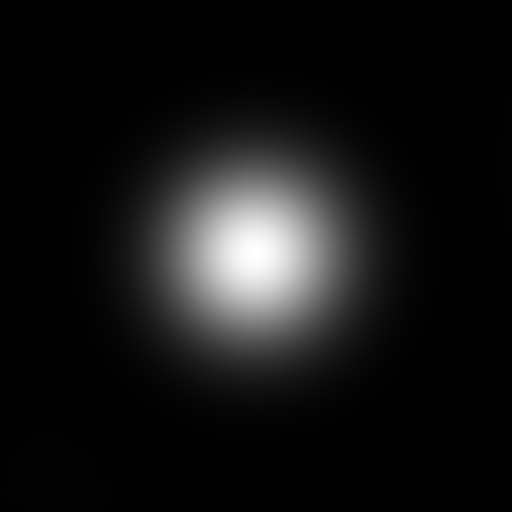
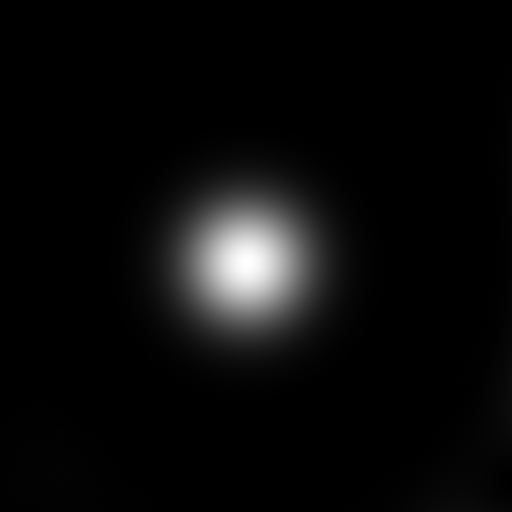
render target perfect

Changed region(s): [[0.25, 0.25, 0.75, 0.75]]

diff --git a/src/js/Webgl/World/Bases/Grass/Grass.js b/src/js/Webgl/World/Bases/Grass/Grass.js
@@ -27,6 +27,7 @@ import {
 	WebGLRenderTarget,
 	Vector2,
 	sRGBEncoding,
+	Box3Helper,
 } from 'three';
 import { loadTexture } from '@utils/loaders/loadAssets';
 
@@ -50,7 +51,6 @@ const params = {
 	halfBoxSize: 28,
 	verticeScale: 0.42,
 	count: 300000,
-	// count: 200,
 	color: '#de47ff',
 	fogColor: '#3e2e77',
 };
@@ -63,7 +63,7 @@ const debug = {
 /// #endif
 
 export default class Grass {
-	constructor(scene) {
+	constructor({ scene }) {
 		const webgl = getWebgl();
 		this.scene = scene.instance;
 		this.player = scene.player;
@@ -75,7 +75,11 @@ export default class Grass {
 		debug.instance = scene.gui;
 		/// #endif
 
-		this.base = {};
+		this.base = {
+			geometry: null,
+			material: null,
+			mesh: null,
+		};
 	}
 
 	async init() {
@@ -93,8 +97,22 @@ export default class Grass {
 	}
 
 	setRenderTarget() {
+		this.minBox = this.ground.base.mesh.geometry.boundingBox.min;
+		this.maxBox = this.ground.base.mesh.geometry.boundingBox.max;
+
 		const rtWidth = 512;
 		const rtHeight = 512;
+
+		this.rtCamera = new OrthographicCamera(
+			this.minBox.x,
+			this.maxBox.x,
+			this.maxBox.z,
+			this.minBox.z,
+			1,
+			this.maxBox.y + Math.abs(this.minBox.y),
+		);
+		this.rtCamera.rotation.x = -Math.PI * 0.5;
+		this.rtCamera.position.y = this.maxBox.y;
 
 		this.renderTarget = new WebGLRenderTarget(rtWidth, rtHeight);
 
@@ -103,20 +121,6 @@ export default class Grass {
 		this.renderTarget.depthTexture = this.depthTexture;
 		this.renderTarget.depthTexture.format = DepthFormat;
 		this.renderTarget.depthTexture.type = UnsignedShortType;
-
-		this.minBox = this.ground.base.mesh.geometry.boundingBox.min;
-		this.maxBox = this.ground.base.mesh.geometry.boundingBox.max;
-
-		this.rtCamera = new OrthographicCamera(
-			this.minBox.x / -2,
-			this.minBox.z / 2,
-			this.maxBox.x / 2,
-			this.maxBox.z / -2,
-			1,
-			this.maxBox.y + Math.abs(this.minBox.y),
-		);
-		this.rtCamera.rotation.x = -Math.PI * 0.5;
-		this.rtCamera.position.y = this.maxBox.y;
 	}
 
 	setDefaultGeometry() {

diff --git a/src/js/Webgl/World/Chapters/Intro/Props/Ground.js b/src/js/Webgl/World/Chapters/Intro/Props/Ground.js
@@ -59,7 +59,7 @@ export default class Ground extends BaseCollider {
 
 	async loadGeometry() {
 		const testPlatform = new Mesh(new BoxGeometry(10, 0.5, 10), new MeshNormalMaterial());
-		testPlatform.position.set(20, 30, 20);
+		testPlatform.position.set(20, 53, 20);
 
 		const secondTestPlatform = new Mesh(new BoxGeometry(10, 0.5, 10), new MeshNormalMaterial());
 		secondTestPlatform.position.set(-20, 3, 20);
@@ -70,12 +70,15 @@ export default class Ground extends BaseCollider {
 		const bTestPlatform = new Mesh(new BoxGeometry(10, 0.5, 10), new MeshNormalMaterial());
 		bTestPlatform.position.set(3, 3, -20);
 
+		const cTestPlatform = new Mesh(new BoxGeometry(20, 0.5, 10), new MeshNormalMaterial());
+		bTestPlatform.position.set(102.32, 13.353, -63.462);
+
 		const plane = new PlaneGeometry(200, 200);
 		plane.rotateX(-Math.PI * 0.5);
 		plane.translate(0, -1, 0);
 
 		let platforms = await mergeGeometry(
-			[secondTestPlatform, testPlatform, aTestPlatform, bTestPlatform],
+			[secondTestPlatform, testPlatform, aTestPlatform, bTestPlatform, cTestPlatform],
 			[],
 		);
 

diff --git a/src/js/Webgl/World/Chapters/End/EndScene.js b/src/js/Webgl/World/Chapters/End/EndScene.js
@@ -7,6 +7,7 @@ import { loadCubeTexture } from '@utils/loaders/loadAssets';
 import BaseAmbient from '@webgl/World/Bases/Lights/BaseAmbient';
 import BaseDirectionnal from '@webgl/World/Bases/Lights/BaseDirectionnal';
 import Lights from '@webgl/World/Bases/Lights/Lights';
+import Grass from '@webgl/World/Bases/Grass/Grass';
 
 export default class EndScene extends BaseScene {
 	constructor() {
@@ -45,6 +46,9 @@ export default class EndScene extends BaseScene {
 		this.lights = new Lights(this, [ambient, directional]);
 
 		await this.ground.init();
+
+		this.grass = new Grass({ scene: this });
+		this.grass.init();
 
 		this.instance.add(
 			this.ground.base.mesh,

diff --git a/src/js/Webgl/World/Chapters/Intro/IntroScene.js b/src/js/Webgl/World/Chapters/Intro/IntroScene.js
@@ -54,9 +54,9 @@ export default class IntroScene extends BaseScene {
 
 		this.lights = new Lights(this, [baseAmbient, directional]);
 
-		await this.ground.init();
+		this.ground.init();
 
-		this.grass = new Grass(this);
+		this.grass = new Grass({ scene: this });
 		this.grass.init();
 
 		this.fog = new BaseFog({
